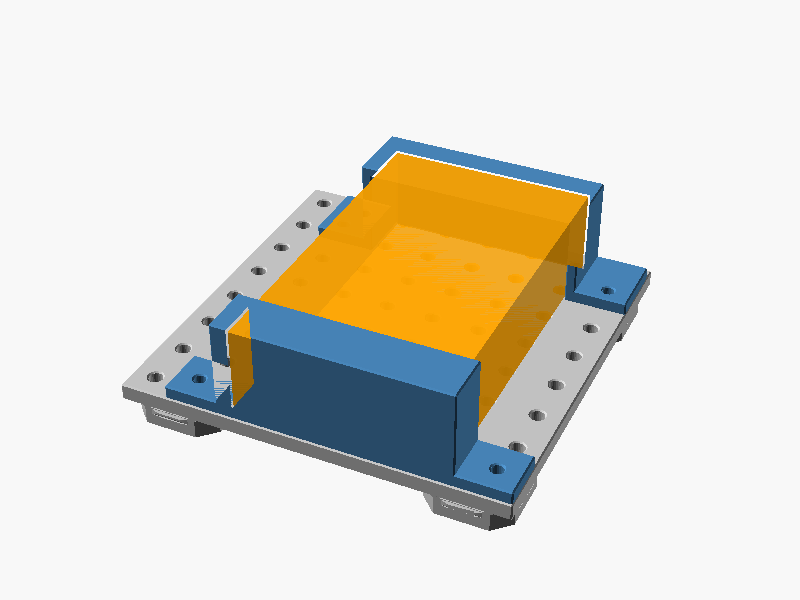
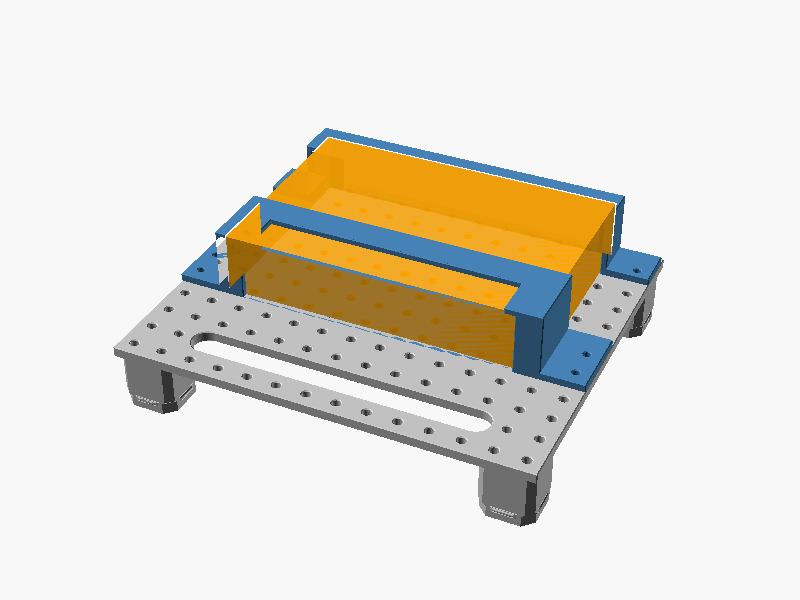
docs: README hero from unifi-8-60w device, add its spec drawing

Changed region(s): [[0.125, 0.21, 0.8438, 0.9]]

diff --git a/README.md b/README.md
@@ -2,7 +2,9 @@
 
 Parametric OpenSCAD generator for device mounting boards that snap onto an openGrid. Screw your device onto the board through M3 heat-set inserts; the board clicks into the grid with openGrid snaps at its corners.
 
-![Device fit check: plate, end caps and device](docs/assembly.png)
+![Device fit check: UniFi 8-port switch on posts, plate, end caps and device](docs/assembly.png)
+
+![Spec drawing for the UniFi switch: holes, caps, margins and wire slot](docs/spec.png)
 
 ## Parts
 
